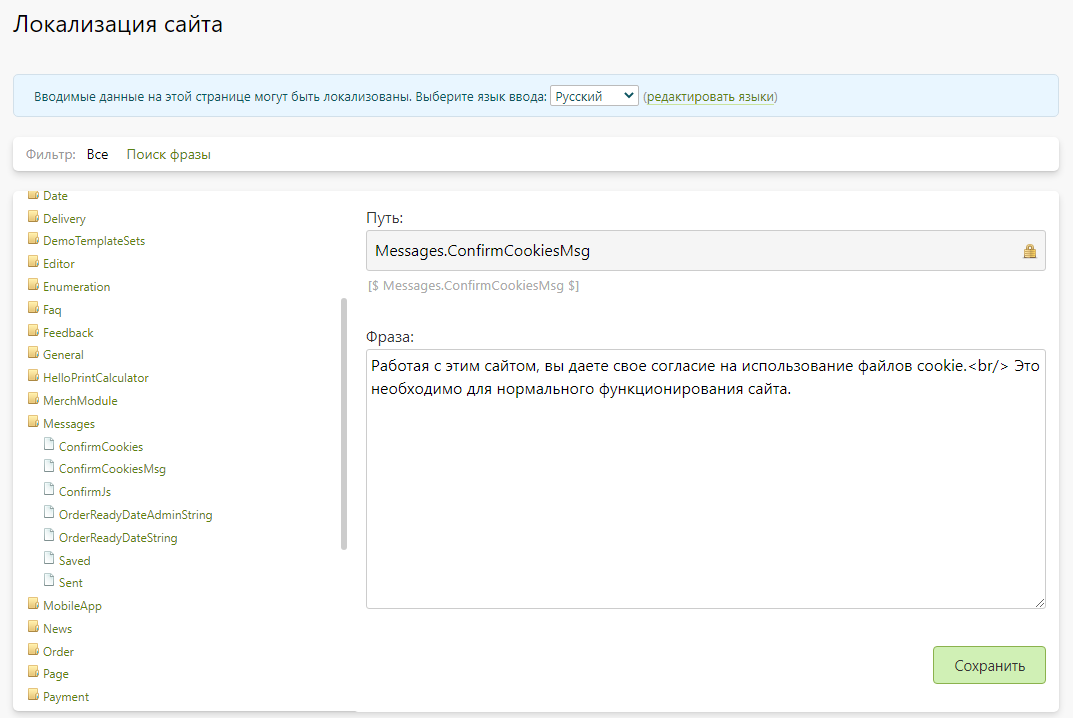
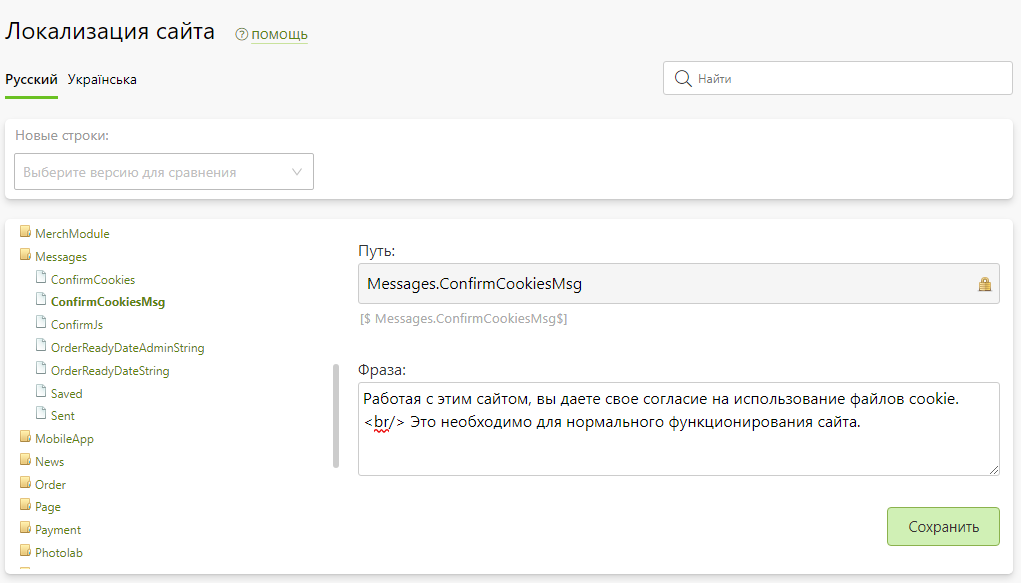
+ правки документации

Changed region(s): [[0.0, 0.0926, 1.0, 1.0], [0.0, 0.0309, 0.3036, 0.0926]]

diff --git a/docs/styles.css b/docs/styles.css
@@ -892,3 +892,4 @@ header .header-link {
 [data-page="dev/calc.md"] .content .markdown-section h2[id="Переменные"],
 [data-page="dev/calc.md"] .content .markdown-section h2[id="Ценовая-панель"],
 [data-page="dev/calc-install.md"] .content .markdown-section h2[id="_3-Инициализация-калькулятора"] {margin-top: 0px!important;}
+[data-page="integration/payments.md"] .content .markdown-section>ul>li>ul>li ul{list-style:none;padding-left:0}

diff --git a/docs/integration/payments.md b/docs/integration/payments.md
@@ -1,14 +1,11 @@
 # Интеграции с платежными системами
 
 ## Сбербанк
-
 * Настройка платежной системы "__Сбербанк__" позволяет оплачивать заказы на сайте при помощи [эквайринга Сбербанка](https://www.sberbank.ru/ru/s_m_business/bankingservice/acquiring_total).
-
 * Для настройки платежной системы необходимо выполнить следующие действия.
-
 ### Получение доступа к тестовой среде
 * Для получения доступа необходимо перейти на [страницу](https://www.sberbank.ru/ru/s_m_business/bankingservice/acquiring_total) и оставить заявку на эквайринг нажав на кнопку "__Оставить заявку__".
-![](../_media/integration/sber_01.png ':size=70%')
+![](../_media/integration/sber_01.png)
 * После заполнения анкеты Сбербанк отправит письмо о регистрации в тестовой среде, содержащее:
     + __логин-operator__ и __пароль__ к нему (для [личного кабинета](https://securepayments.sberbank.ru/mportal3));
     + __логин-api__ и __пароль__ к нему (для указания в панели управления Pixlpark).
@@ -29,7 +26,7 @@
 ### Настройка тестового режима оплаты заказов
 * Для настройки тестового режима оплаты заказов в панели управления Pixlpark необходимо  перейти в раздел "__Настройка / Оплата__" и в подразделе "__Способы оплаты__" перейти в [карточку оплаты](https://docs.pixlpark.ru/#/site/payments?id=%d0%9a%d0%b0%d1%80%d1%82%d0%be%d1%87%d0%ba%d0%b0-%d0%be%d0%bf%d0%bb%d0%b0%d1%82%d1%8b) "__Сбербанк__".
 > В случае, если при переходе в подраздел "__Способы оплаты__"  в списке отсутствует "__Сбербанк__", необходимо выбрать значение "__Не учитывать__" в подразделе "__Доступность__".
-* ![](../_media/integration/sber_02.png ':size=70%')
+* ![](../_media/integration/sber_02.png)
 * В подразделе "__Основная информация__" заполнить поля, указав:
     + __Название на сайте__;
     + __Название в панели управления__;
@@ -37,14 +34,14 @@
     + __Платежная система доступна на сайте__ - необходимо включить;
     + __Платежная система доступна в мобильном приложении__ - включить при необходимости;
     + __Платежная система используется по умолчанию__ - включить при необходимости.
-* ![](../_media/integration/sber_03.png ':size=70%')
+* ![](../_media/integration/sber_03.png)
 > Подраздел "__Ограничения__" при необходимости настраивается опционально.
-* ![](../_media/integration/restriction.png ':size=70%')
+* ![](../_media/integration/restriction.png)
 * В подразделе "__Настройки платежной системы__" заполнить поля, указав:
     + "__Тестовый логин__" - тестовый логин из письма в формате `логин-api`;
     + "__Тестовый пароль__" - пароль для тестового `логин-api` из письма;
     + "__Включить тестовый режим работы__" - необходимо включить.
-* ![](../_media/integration/sber_04.png ':size=70%')
+* ![](../_media/integration/sber_04.png)
 * > При использовании версии ФФД 1.05 в настройках эквайринга от Сбербанка включить "Использовать новый формат ФФД 1.05".
 * Далее, нажать кнопку "__Сохранить__" и сбросить кэш сайта.
 * После, осуществить платеж на сайте выбрав "__Сбербанк__" в качестве способа оплаты заказа. Для осуществления платежа использовать [тестовые карты](https://securepayments.sberbank.ru/wiki/doku.php/test_cards).
@@ -66,22 +63,19 @@
     + "__Логин__" - указать логин из письма в формате `логин–api`;
     + "__Пароль__" - указать новый пароль, измененный в личном кабинете эквайринга;
     + "__Включить тестовый режим работы__" - необходимо выключить.
-* ![](../_media/integration/sber-06.png ':size=70%')
+* ![](../_media/integration/sber-06.png)
 * > При использовании версии ФФД 1.05 в настройках эквайринга от Сбербанка включить "Использовать новый формат ФФД 1.05".
 * Далее, нажать кнопку "__Сохранить__" и сбросить кэш сайта.
 > В [личном кабинете эквайринга](https://securepayments.sberbank.ru/mportal3) возможно отслеживать заказы, оплаченные через Сбербанк. Для авторизации необходимо использовать логин-оператор и новый пароль к нему.
 
 ## Тинькофф
-
 * Настройка платежной системы "__Тинькофф__" позволяет оплачивать заказы на сайте при помощи [эквайринга Тинькофф](https://www.tinkoff.ru/business/payments/internet-acquiring).
-
 > Для корректной работы платежной системы в профиле пользователя обязательно указать email.
-
 * Для настройки платежной системы необходимо выполнить следующие действия.
 
 ### Получение доступа
 * Для получения доступа необходимо перейти на [страницу](https://www.tinkoff.ru/business/payments/internet-acquiring/) и оставить заявку на эквайринг нажав на кнопку "__Подключить__".
-![](../_media/integration/tinkoff_01.png ':size=70%')
+![](../_media/integration/tinkoff_01.png)
 
 ### Требования к оформлению сайта
 * Для подключения платежной системы необходимо привести сайт в соответствии с [требованиями](https://www.tinkoff.ru/kassa/solution/classic/help/how-work/connection-conditions/#q3).
@@ -90,7 +84,7 @@
 > Предварительно необходимо [настроить](https://www.tinkoff.ru/kassa/solution/classic/help/how-involve/payment/#q8) тестовый терминал в личном кабинете интернет-эквайринга Тинькофф.
 * Для настройки тестового режима оплаты заказов в панели управления Pixlpark необходимо  перейти в раздел "__Настройка / Оплата__" и в подразделе "__Способы оплаты__" перейти в [карточку оплаты](https://docs.pixlpark.ru/#/site/payments?id=%d0%9a%d0%b0%d1%80%d1%82%d0%be%d1%87%d0%ba%d0%b0-%d0%be%d0%bf%d0%bb%d0%b0%d1%82%d1%8b) "__Тинькофф__".
 > В случае, если при переходе в подраздел "__Способы оплаты__"  в списке отсутствует "__Тинькофф__", необходимо выбрать значение "__Не учитывать__" в подразделе "__Доступность__".
-* ![](../_media/integration/sber_02.png ':size=70%')
+* ![](../_media/integration/sber_02.png)
 * В подразделе "__Основная информация__" заполнить поля, указав:
     + __Название на сайте__;
     + __Название в панели управления__;
@@ -98,25 +92,43 @@
     + __Платежная система доступна на сайте__ - необходимо включить;
     + __Платежная система доступна в мобильном приложении__ - включить при необходимости;
     + __Платежная система используется по умолчанию__ - включить при необходимости.
-* ![](../_media/integration/tinkoff_02.png ':size=70%')
+* ![](../_media/integration/tinkoff_02.png)
 > Подраздел "__Ограничения__" при необходимости настраивается опционально.
-* ![](../_media/integration/restriction.png ':size=70%')
+* ![](../_media/integration/restriction.png)
 * В подразделе "__Настройки платежной системы__" заполнить поля, указав:
+    + "__Включить тестовый режим работы__" - необходимо влключить.
     + "__Terminal ID__" - номер тестового терминала.
-* ![](../_media/integration/tinkoff_03.png ':size=70%')
+    + "__Пароль__" - пароль тестового терминала.
+* ![](../_media/integration/tinkoff_03.png)
 * Далее, нажать кнопку "__Сохранить__" и сбросить кэш сайта.
 * После, осуществить платеж на сайте выбрав "__Тинькофф__" в качестве способа оплаты заказа. Для осуществления платежей использовать данные тестовых карт, указанных на странице "__Тестирование платежей__" в личном кабинете Тинькофф.
 > Подробную информацию о тестировании можно узнать на [странице](https://www.tinkoff.ru/kassa/solution/classic/help/how-involve/payment/#q10).
 * При успешном завершении платежа информация дополнительно будет отражена в подразделе "__Оплата заказа__" [карточки заказа](https://docs.pixlpark.ru/#/orders/edit?id=%d0%9e%d0%bf%d0%bb%d0%b0%d1%82%d0%b0-%d0%b7%d0%b0%d0%ba%d0%b0%d0%b7%d0%b0) в панели управления Pixlpark.
-![](../_media/integration/tinkoff_04.png ':size=40%')
+![](../_media/integration/tinkoff_04.png)
 
 ### Настройка рабочего режима оплаты заказов
 > Для осуществления настроек предварительно необходимо настроить рабочий терминал в личном кабинете Тинькофф, а также убедится в его активации сотрудниками банка.
 * Для настройки рабочего режима оплаты заказов необходимо перейти в раздел "__Настройка / Оплата__" и в подразделе "__Способы оплаты__" перейти в "__Тинькофф__".
 * В подразделе "__Настройки платежной системы__" заполнить поля, указав:
+    + "__Включить тестовый режим работы__" - необходимо выключить.
     + "__Terminal ID__" - номер рабочего терминала.
-* ![](../_media/integration/tinkoff_05.png ':size=70%')
+    + "__Пароль__" - пароль рабочего терминала.
+* ![](../_media/integration/tinkoff_05.png)
 * Далее, нажать кнопку "__Сохранить__" и сбросить кэш сайта.
+
+### Настройка возврата платежа
+* Для включения механизма возврата платежей в подразделе "__Основная информация__" раздела "__Настройка / Оплата / Настройка__" необходимо включить "__Разрешить возврат платежей в панели управления__".
+![](../_media/integration/tinkoff_06.png)
+* Возврат платежей из панели управления осуществляется несколькими способами.
+    + __На странице списка заказов__
+        - При отмене заказа будет отображено всплывающее окно с информацией о возврате средств.
+* ![](../_media/integration/tinkoff_07.png)
+    + __В карточке заказа__
+        - При отмене заказа будет отображено всплывающее окно с информацией о возврате средств. 
+* ![](../_media/integration/tinkoff_08.png)
+    + __В разделе редактирования оплаты карточки заказа__
+        - При выделении необходимого счета на оплату становится доступна кнопка "__Оформить возврат__".
+* ![](../_media/integration/tinkoff_09.png)
 
 ## Robokassa
 
@@ -126,7 +138,7 @@
 
 ### Получение доступа
 * Для получения доступа необходимо перейти на [страницу](https://robokassa.com) и оставить заявку на подключение нажав на кнопку "__Подключиться к Robokassa__".
-![](../_media/integration/robokassa-01.png ':size=70%')
+![](../_media/integration/robokassa-01.png)
 
 ### Требования к оформлению сайта
 * Для подключения платежной системы необходимо привести сайт в соответствии с [требованиями](https://robokassa.com/content/trebovaniya.html).
@@ -142,7 +154,7 @@
 > - пароли для проведения тестовых платежей.
 * Для настройки тестового режима оплаты заказов в панели управления Pixlpark необходимо  перейти в раздел "__Настройка / Оплата__" и в подразделе "__Способы оплаты__" перейти в [карточку оплаты](https://docs.pixlpark.ru/#/site/payments?id=%d0%9a%d0%b0%d1%80%d1%82%d0%be%d1%87%d0%ba%d0%b0-%d0%be%d0%bf%d0%bb%d0%b0%d1%82%d1%8b) "__Robokassa__".
 > В случае, если при переходе в подраздел "__Способы оплаты__"  в списке отсутствует "__Robokassa__", необходимо выбрать значение "__Не учитывать__" в подразделе "__Доступность__".
-* ![](../_media/integration/sber_02.png ':size=70%')
+* ![](../_media/integration/sber_02.png)
 * В подразделе "__Основная информация__" заполнить поля, указав:
     + __Название на сайте__;
     + __Название в панели управления__;
@@ -150,15 +162,15 @@
     + __Платежная система доступна на сайте__ - необходимо включить;
     + __Платежная система доступна в мобильном приложении__ - включить при необходимости;
     + __Платежная система используется по умолчанию__ - включить при необходимости.
-* ![](../_media/integration/robokassa-02.png ':size=70%')
+* ![](../_media/integration/robokassa-02.png)
 > Подраздел "__Ограничения__" при необходимости настраивается опционально.
-* ![](../_media/integration/restriction.png ':size=70%')
+* ![](../_media/integration/restriction.png)
 * В подразделе "__Настройки платежной системы__" заполнить поля, указав:
     + "__Идентификатор магазина__" - идентификатор магазина в Robokassa;
     + "__Пароль #1__" - пароль #1 для тестовой среды в Robokassa;
     + "__Пароль #2__" - пароль #2 для тестовой среды в Robokassa;
     + "__Включить тестовый режим работы__" - необходимо включить.
-* ![](../_media/integration/robokassa-04.png ':size=70%')
+* ![](../_media/integration/robokassa-04.png)
 * Далее, нажать кнопку "__Сохранить__" и сбросить кэш сайта.
 * После, осуществить платеж на сайте выбрав "__Robokassa__" в качестве способа оплаты заказа.
 * При успешном завершении платежа информация дополнительно будет отражена в подразделе "__Оплата заказа__" [карточки заказа](https://docs.pixlpark.ru/#/orders/edit?id=%d0%9e%d0%bf%d0%bb%d0%b0%d1%82%d0%b0-%d0%b7%d0%b0%d0%ba%d0%b0%d0%b7%d0%b0) в панели управления Pixlpark.
@@ -170,7 +182,7 @@
     + "__Пароль #1__" - пароль #1 в Robokassa;
     + "__Пароль #2__" - пароль #2 в Robokassa;
     + "__Включить тестовый режим работы__" - необходимо включить.
-* ![](../_media/integration/robokassa-05.png ':size=70%')
+* ![](../_media/integration/robokassa-05.png)
 * Далее, нажать кнопку "__Сохранить__" и сбросить кэш сайта.
 > Для запуска платежной системы необходимо пройти двухэтапную активацию магазина в Robokassa.
 
@@ -182,7 +194,7 @@
 
 ### Получение доступа
 * Для получения доступа необходимо перейти на [страницу](https://yookassa.ru) и оставить заявку на подключение нажав на кнопку "__Подключить ЮKassa__".
-![](../_media/integration/yookassa-01.png ':size=70%')
+![](../_media/integration/yookassa-01.png)
 
 ### Требования к оформлению сайта
 * Для подключения сервиса необходимо привести сайт в соответствии с [требованиями](https://yookassa.ru/docs/support/payments/onboarding/arrangement).
@@ -191,7 +203,7 @@
 > После настройки основного магазина необходимо проверить корректность настроек в тестовом режиме оплаты при помощи [тестового магазина](https://yookassa.ru/docs/support/merchant/payments/implement/test-store). В разделе "__Интеграция /  HTTP - уведомления__" тестового магазина в личном кабинете ЮKassa необходимо указать URL для уведомления из панели управления Pixlpark в формате: `https://frontend-XXXX.pixlpark.com/api/payment/yookassa-api/check` , а так же: __payment.succeeded__, __payment.waiting_for_capture__ и __payment.canceled__. В тестовом магазине возможно протестировать два вида оплаты: банковские карты и ЮMoney. 
 * Для настройки тестового режима оплаты заказов в панели управления Pixlpark необходимо  перейти в раздел "__Настройка / Оплата__" и в подразделе "__Способы оплаты__" перейти в [карточку оплаты](https://docs.pixlpark.ru/#/site/payments?id=%d0%9a%d0%b0%d1%80%d1%82%d0%be%d1%87%d0%ba%d0%b0-%d0%be%d0%bf%d0%bb%d0%b0%d1%82%d1%8b) "__ЮKassa__".
 > В случае, если при переходе в подраздел "__Способы оплаты__"  в списке отсутствует "__ЮKassa__", необходимо выбрать значение "__Не учитывать__" в подразделе "__Доступность__".
-* ![](../_media/integration/sber_02.png ':size=70%')
+* ![](../_media/integration/sber_02.png)
 * В подразделе "__Основная информация__" заполнить поля, указав:
     + __Название на сайте__;
     + __Название в панели управления__;
@@ -199,9 +211,9 @@
     + __Платежная система доступна на сайте__ - необходимо включить;
     + __Платежная система доступна в мобильном приложении__ - включить при необходимости;
     + __Платежная система используется по умолчанию__ - включить при необходимости.
-* ![](../_media/integration/yookassa-02.png ':size=70%')
+* ![](../_media/integration/yookassa-02.png)
 > Подразделы "__Ограничения__" и "__Комиссия платежной системы__" при необходимости настраиваются опционально.
-* ![](../_media/integration/yookassa-03.png ':size=70%')
+* ![](../_media/integration/yookassa-03.png)
 * В подразделе "__Настройки платежной системы__" заполнить поля, указав:
     + "__Идентификатор магазина__" - Shop ID тестового магазина в ЮKassa;
     + "__Секретный ключ__" - секретный ключ тестового магазина в ЮKassa;
@@ -214,7 +226,7 @@
     + "__Использовать авансовый тип оплаты (вместо полной / частичной оплаты)__" - включить при необходимости;
     + "__Использовать данные от способов доставки__" - включить при необходимости;
     + "__Включить тестовый режим работы__" - необходимо включить;
-* ![](../_media/integration/yookassa-04.png ':size=70%')
+* ![](../_media/integration/yookassa-04.png)
 > "__Идентификатор магазина__" и "__Секретный ключ__" необходимый для приема платежей на сайте. "__Идентификатор магазина (мобильное приложение)__", "__Секретный ключ (мобильное приложение)__", "__Ключ для мобильного SDK__" и "__Название сертификата ApplePay__" необходимый для приема платежей в мобильном приложении.
 * Далее, нажать кнопку "__Сохранить__" и сбросить кэш сайта.
 * После, осуществить платеж на сайте выбрав "__ЮKassa__" в качестве способа оплаты заказа. Для осуществления платежа использовать [тестовые карты](https://yookassa.ru/developers/payment-acceptance/testing-and-going-live/testing#test-bank-card-data).
@@ -231,7 +243,7 @@
     + "__Ключ для мобильного SDK__" - ключ для мобильного SDK в ЮKassa (создается при необходимости приема платежей в мобильном приложении);
     + "__Название сертификата ApplePay__" - сертификат ApplePay для ЮKassa;
     + "__Включить тестовый режим работы__" - необходимо выключить.
-![](../_media/integration/yookassa-06.png ':size=70%')
+![](../_media/integration/yookassa-06.png)
 * Далее, нажать кнопку "__Сохранить__" и сбросить кэш сайта.
 
 ## Банковский перевод
@@ -241,35 +253,35 @@
 * Для настройки платежной системы необходимо выполнить следующие действия.
 * В панели управления Pixlpark необходимо  перейти в раздел "__Настройка / Оплата__" и в подразделе "__Способы оплаты__" перейти в [карточку оплаты](https://docs.pixlpark.ru/#/site/payments?id=%d0%9a%d0%b0%d1%80%d1%82%d0%be%d1%87%d0%ba%d0%b0-%d0%be%d0%bf%d0%bb%d0%b0%d1%82%d1%8b) "__Банковский перевод__".
 > В случае, если при переходе в подраздел "__Способы оплаты__"  в списке отсутствует "__Банковский перевод__", необходимо выбрать значение "__Не учитывать__" в подразделе "__Доступность__".
-* ![](../_media/integration/sber_02.png ':size=70%')
+* ![](../_media/integration/sber_02.png)
 * В подразделе "__Основная информация__" заполнить поля, указав:
     + __Название на сайте__;
     + __Название в панели управления__;
     + __Платежная система доступна на сайте__ - необходимо включить;
     + __Платежная система доступна в мобильном приложении__ - включить при необходимости;
     + __Платежная система используется по умолчанию__ - включить при необходимости.
-* ![](../_media/integration/bank-transfer-01.png ':size=70%')
+* ![](../_media/integration/bank-transfer-01.png)
 > Подраздел "__Ограничения__" при необходимости настраивается опционально.
-* ![](../_media/integration/restriction.png ':size=70%')
+* ![](../_media/integration/restriction.png)
 * После, подготовить шаблон платежного документа с указанием реквизитов организации в подразделе "__Платежные документы__".
-* ![](../_media/integration/bank-transfer-02.png ':size=70%')
+* ![](../_media/integration/bank-transfer-02.png)
 > Добавить новый платежный документ можно при помощи кнопки "__Добавить__".
-* ![](../_media/integration/bank-transfer-03.png ':size=70%')
+* ![](../_media/integration/bank-transfer-03.png)
 * На странице платежного документа заполнить форму, указав:
     + __"Название"__ - название платежного документа на сайте;
     + "__Документ доступен на сайте__" - необходимо включить;
     + "__Сохранять документ в формате PDF (по умолчанию HTML)__" - включить при необходимости выгрузки документа в формате PDF.
-* ![](../_media/integration/bank-transfer-04.png ':size=70%')
+* ![](../_media/integration/bank-transfer-04.png)
 * Далее, при необходимости, включить ограничения в подразделе "__Ограничения__" платежного документа.
-* ![](../_media/integration/bank-transfer-05.png ':size=70%')
+* ![](../_media/integration/bank-transfer-05.png)
 * Затем, в подразделе "__Документ__" добавить текстовое содержимое платежного документа.
-* ![](../_media/integration/bank-transfer-06.png ':size=70%')
+* ![](../_media/integration/bank-transfer-06.png)
 * Далее, нажать кнопку "__Сохранить__" и сбросить кэш сайта.
 * После, осуществить платеж на сайте выбрав "__Банковский перевод__" в качестве способа оплаты заказа. При переходе на страницу оплаты выбрать необходимый бланк счета и нажать кнопку "__Распечатать__".
-* ![](../_media/integration/bank-transfer-07.png ':size=70%')
+* ![](../_media/integration/bank-transfer-07.png)
 * Информация о платеже дополнительно будет отражена в подразделе "__Оплата заказа__" [карточки заказа](https://docs.pixlpark.ru/#/orders/edit?id=%d0%9e%d0%bf%d0%bb%d0%b0%d1%82%d0%b0-%d0%b7%d0%b0%d0%ba%d0%b0%d0%b7%d0%b0) в панели управления Pixlpark.
 ![](../_media/integration/bank-transfer-08.png ':size=40%')
 > После подтверждения платежа статус оплаты заказа в панели управления Pixlpark можно изменить вручную нажав на кнопку "__Изменить__". Для этого в карточке "__Информация об оплате__"  необходимо ввести сумму платежа и нажать на кнопку "__Сохранить__".
-* ![](../_media/integration/bank-transfer-09.png ':size=70%')
+* ![](../_media/integration/bank-transfer-09.png)
 > Изменение статуса оплаты будет отражено в подразделе "__Оплата заказа__" карточки заказа в панели управления Pixlpark.
 * ![](../_media/integration/bank-transfer-10.png ':size=40%')

diff --git a/docs/cms/localization.md b/docs/cms/localization.md
@@ -2,5 +2,6 @@
 * В данном разделе представлен набор коротких фраз, которые используются на сайте для перевода интерфейса. Это могут быть кнопки, информационные сообщения, заголовки таблиц или что-то еще.
 * Для удобства изменения фраз:
     + Они сгруппированы в виде раскрывающегося дерева (слева).
-    + В поле "__фильтр__" можно выделять все фразы либо искать по вхождению в них строки поиска.
+    + В поле "__Новые строки__" выбрав версию для сравнения возможно отслеживать добавляемые при обновлении сервиса константы.
+    + В поле поиска можно выделять все фразы либо искать по вхождению в них строки поиска.
 * ![](../_media/cms/localization.png)

diff --git a/docs/site/shippings.md b/docs/site/shippings.md
@@ -182,6 +182,9 @@
 ### Основная информация
 * В данном разделе задается базовые настройки страницы доставки.
 * ![](../_media/site/shippings-settings-general.png)
+> Для корректной работы доставки необходимо заполнить хотя бы один ключ для карты.
+>    + Получить API ключ Яндекс.Карты можно в разделе "__JavaScript API и HTTP Геокодер__" [кабинета разработчика](https://developer.tech.yandex.ru/) нажав "__Получить ключ__".
+>    + Получить API ключ Google.Maps можно в [Google Maps Platform](https://mapsplatform.google.com). Для корректной работы должны быть включены "__Geocoding API__", "__Map JavaScript API__", "__Places API__".
 
 ### Точки выдачи
 * В данном разделе задаются настройки, отвечающие за изменения списка точек выдачи.
